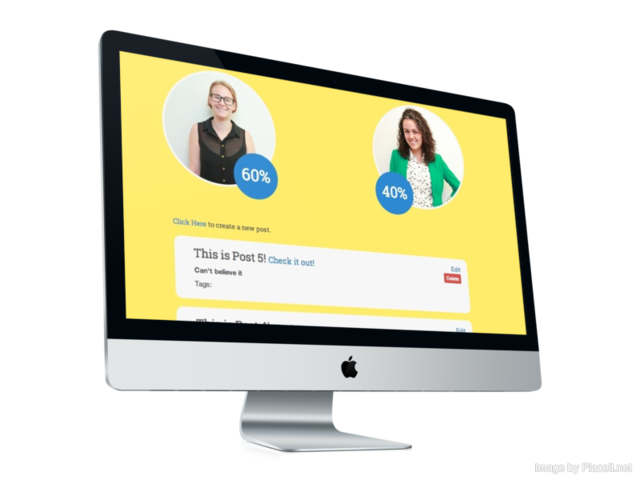
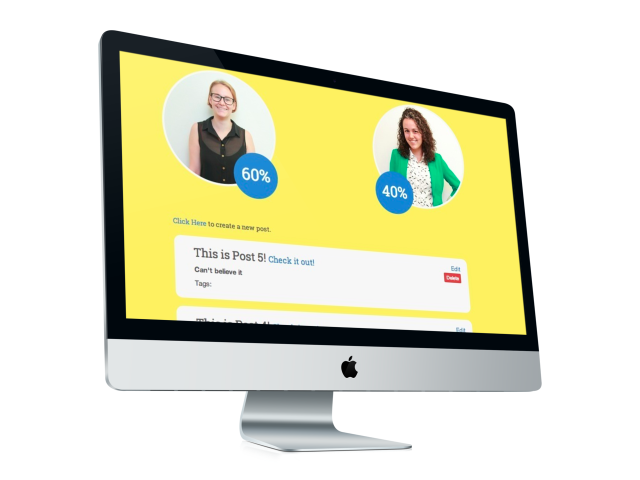
final stylings

diff --git a/app/assets/stylesheets/linklove.scss b/app/assets/stylesheets/linklove.scss
@@ -267,6 +267,10 @@ footer p {
   font-size: 50px;
 }
 
+.starter-template.home.bottom a {
+  color: white;
+}
+
 .starter-template.home.top {
   background-color: $white_color;
 }
@@ -299,6 +303,35 @@ i.hp-icons {
 div.home {
   padding-top: 30px;
   padding-bottom: 30px;
+}
+
+footer a {
+  color: white;
+}
+
+div.row.form {
+  background-color: $yellow_color;
+}
+
+form {
+  color: black;
+}
+
+// .form {
+//   color: black;
+// }
+
+div.row.form input {
+  margin-top: 10px;
+  margin-bottom: 10px;
+}
+
+li.post-links {
+  padding-bottom: 10px;
+}
+
+li.tags {
+
 }
 
 // div.hp {
